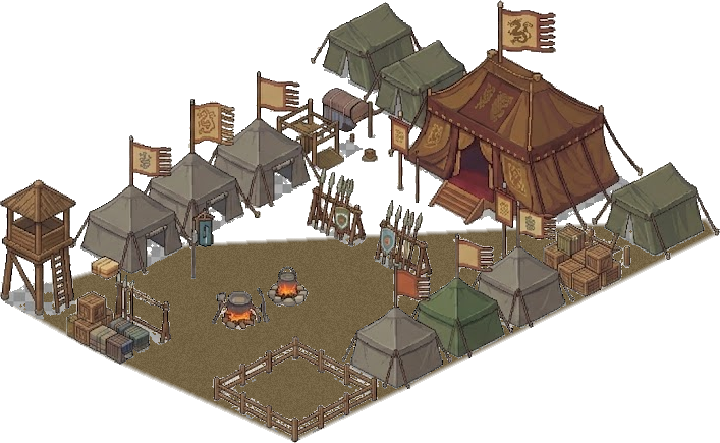
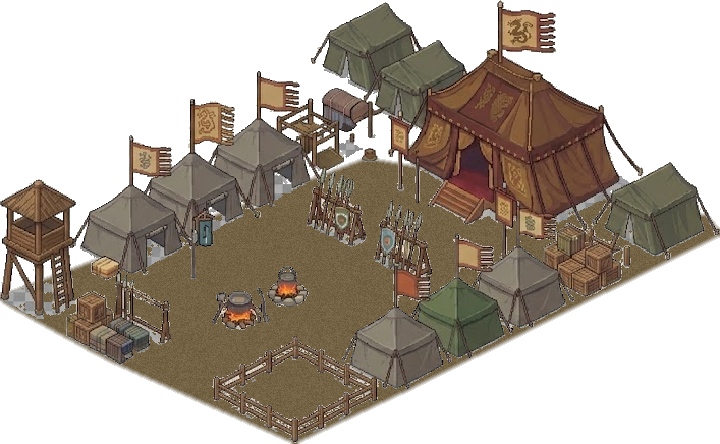
Campamento: tierra cubre TODO el campamento + carga el JS de exclusión de props
- Máscara de suelo por BASES POR COMPONENTE (antes una envolvente global perdía
  las tiendas del norte que comparten columna con una del sur → quedaban en hierba).
- Sube hac-iso.js?v=56→57 (el commit anterior no lo subió, así que underExtSprite
  ni se cargaba y el bambú seguía sobre la atalaya); SPRITE_VER 29; extra ?v=6.
- underExtSprite muestrea también ±½ tile para excluir props pegados al borde.
- Meta h:443→444.

diff --git a/assets/js/hac-iso.js b/assets/js/hac-iso.js
@@ -20,7 +20,7 @@ const HacIso = (function () {
   const TOP_MARGIN = 132;             // hueco arriba para edificios altos, murallas y torres
   const PAD_X = 40;                   // margen lateral para murallas y paseo de ronda
   const SPRITE_BASE = 'assets/img/iso/';
-  const SPRITE_VER = '28';  // súbelo al regenerar los PNG (cache-busting)
+  const SPRITE_VER = '29';  // súbelo al regenerar los PNG (cache-busting)
 
   // ── Color helpers (para el placeholder) ─────────────────────────────────
   const { hexToRgb, clamp255: cl } = HacUtil;
@@ -289,11 +289,17 @@ const HacIso = (function () {
         return { ax: Math.round(X(c.pos[0], c.pos[1]) * SCALE - m.ox), ay: Math.round(Y(c.pos[0], c.pos[1]) * SCALE - m.oy), w: img.width, h: img.height, data: og.getImageData(0, 0, img.width, img.height).data };
       } catch (e) { return null; }
     }).filter(Boolean);
+    // Muestrea el centro de la celda y un anillo a ±½ tile (tolerancia ≈1 celda)
+    // para excluir también props pegados al borde de la silueta (p.ej. el bambú
+    // junto a la atalaya, cuya base cae justo fuera de la explanada).
+    const SAMPLE = [[0, 0], [18, 0], [-18, 0], [0, 9], [0, -9]];
     const underExtSprite = (gx, gy) => {
       const px = X(gx, gy) * SCALE, py = Y(gx, gy) * SCALE;
       for (const s of extAlpha) {
-        const ix = Math.round(px - s.ax), iy = Math.round(py - s.ay);
-        if (ix >= 0 && iy >= 0 && ix < s.w && iy < s.h && s.data[(iy * s.w + ix) * 4 + 3] > 40) return true;
+        for (const [dx, dy] of SAMPLE) {
+          const ix = Math.round(px + dx - s.ax), iy = Math.round(py + dy - s.ay);
+          if (ix >= 0 && iy >= 0 && ix < s.w && iy < s.h && s.data[(iy * s.w + ix) * 4 + 3] > 40) return true;
+        }
       }
       return false;
     };

diff --git a/haciendas.html b/haciendas.html
@@ -81,9 +81,9 @@
 <script src="assets/js/hac-solicitudes.js?v=1"></script>
 <script src="assets/js/hac-render.js?v=4"></script>
 <script src="assets/js/iso-sprites-meta.js?v=16"></script>
-<script src="assets/js/iso-sprites-extra.js?v=5"></script>
+<script src="assets/js/iso-sprites-extra.js?v=6"></script>
 <script src="assets/js/hac-flora.js?v=1"></script>
-<script src="assets/js/hac-iso.js?v=56"></script>
+<script src="assets/js/hac-iso.js?v=57"></script>
 <script src="assets/js/hac-dialog.js?v=2"></script>
 <script src="assets/js/hac-folk.js?v=28"></script>
 <script src="assets/js/haciendas.js?v=2"></script>

diff --git a/hacienda.html b/hacienda.html
@@ -40,9 +40,9 @@
 <script src="assets/js/hac-render.js?v=4"></script>
 <script src="assets/js/hac-pixel.js?v=3"></script>
 <script src="assets/js/iso-sprites-meta.js?v=16"></script>
-<script src="assets/js/iso-sprites-extra.js?v=5"></script>
+<script src="assets/js/iso-sprites-extra.js?v=6"></script>
 <script src="assets/js/hac-flora.js?v=1"></script>
-<script src="assets/js/hac-iso.js?v=56"></script>
+<script src="assets/js/hac-iso.js?v=57"></script>
 <script src="assets/js/hac-dialog.js?v=2"></script>
 <script src="assets/js/hac-folk.js?v=28"></script>
 <script src="assets/js/hac-snapshots.js?v=1"></script>

diff --git a/assets/js/iso-sprites-extra.js b/assets/js/iso-sprites-extra.js
@@ -9,5 +9,5 @@
   // Campamento militar (8×10): vista ÚNICA a partir de la ilustración (un solo
   // sprite, sin cuantizar para no perder los degradados). No rota: spriteKey en
   // hac-iso cae a '-0' para cualquier rotación. Anclaje (ox,oy) afinado al footprint.
-  window.ISO_SPRITES_META['bld-campamento-0'] = { ox: 396, oy: 58, w: 720, h: 443, webp: true };
+  window.ISO_SPRITES_META['bld-campamento-0'] = { ox: 396, oy: 58, w: 720, h: 444, webp: true };
 })();
